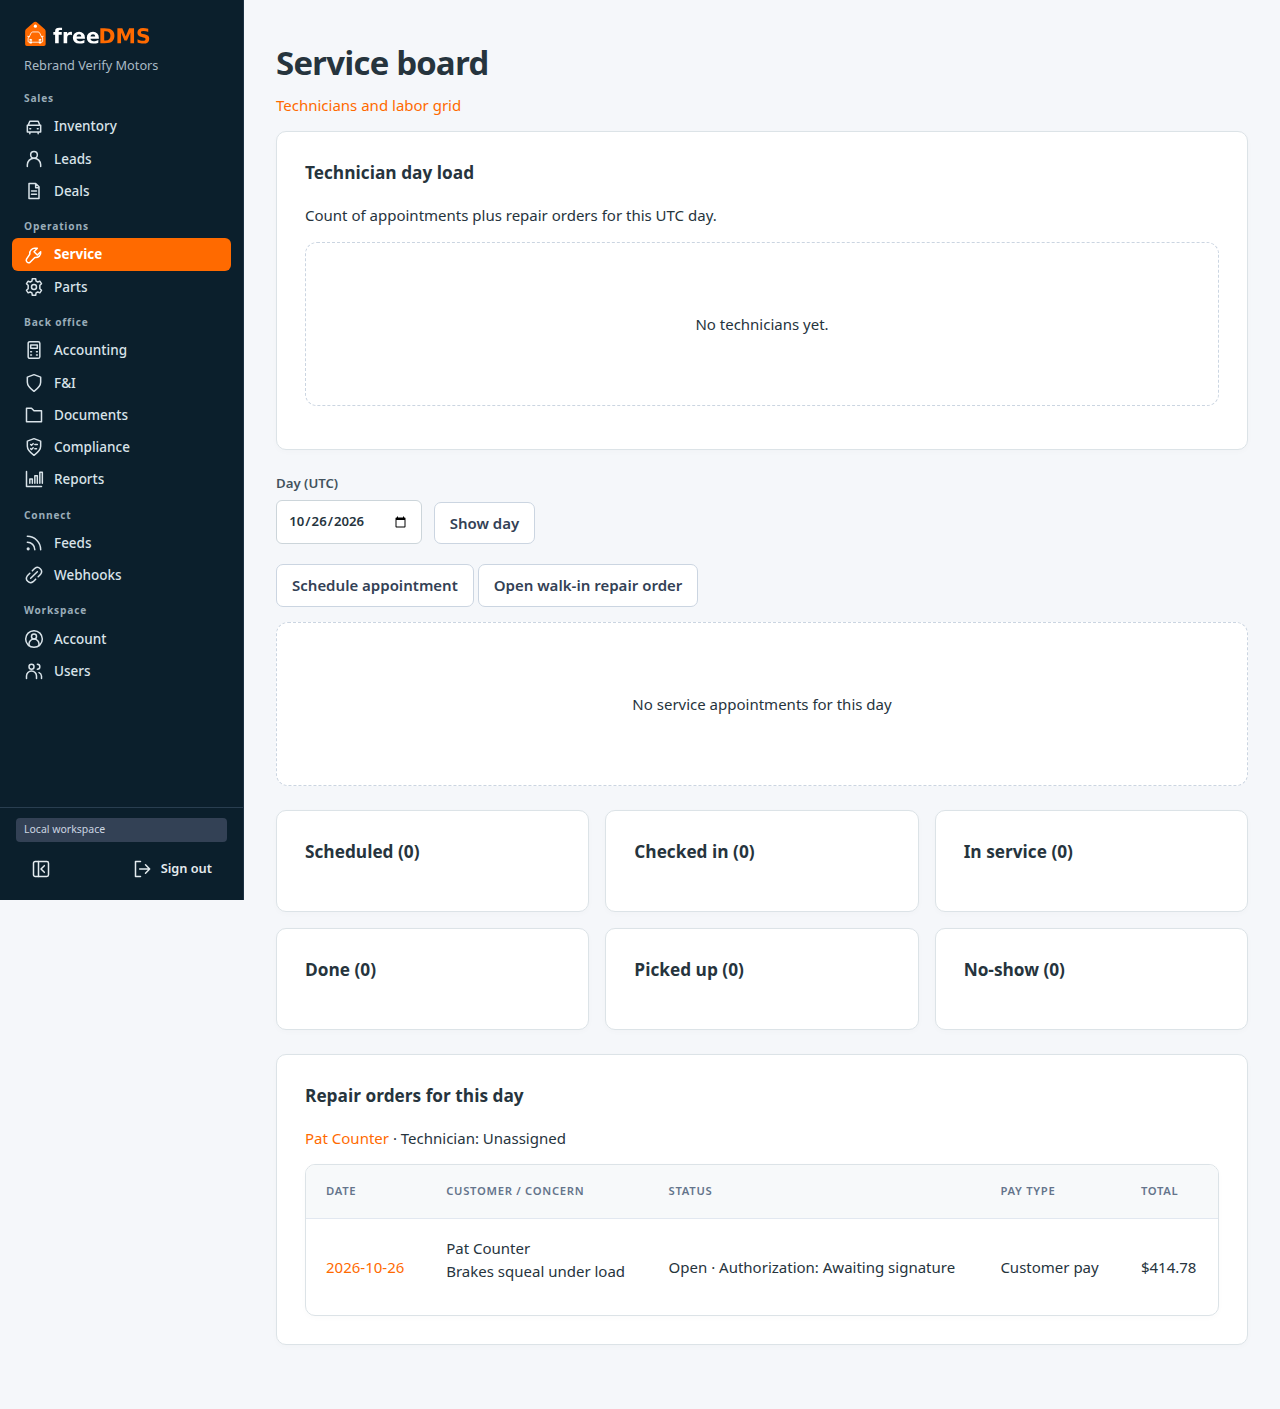
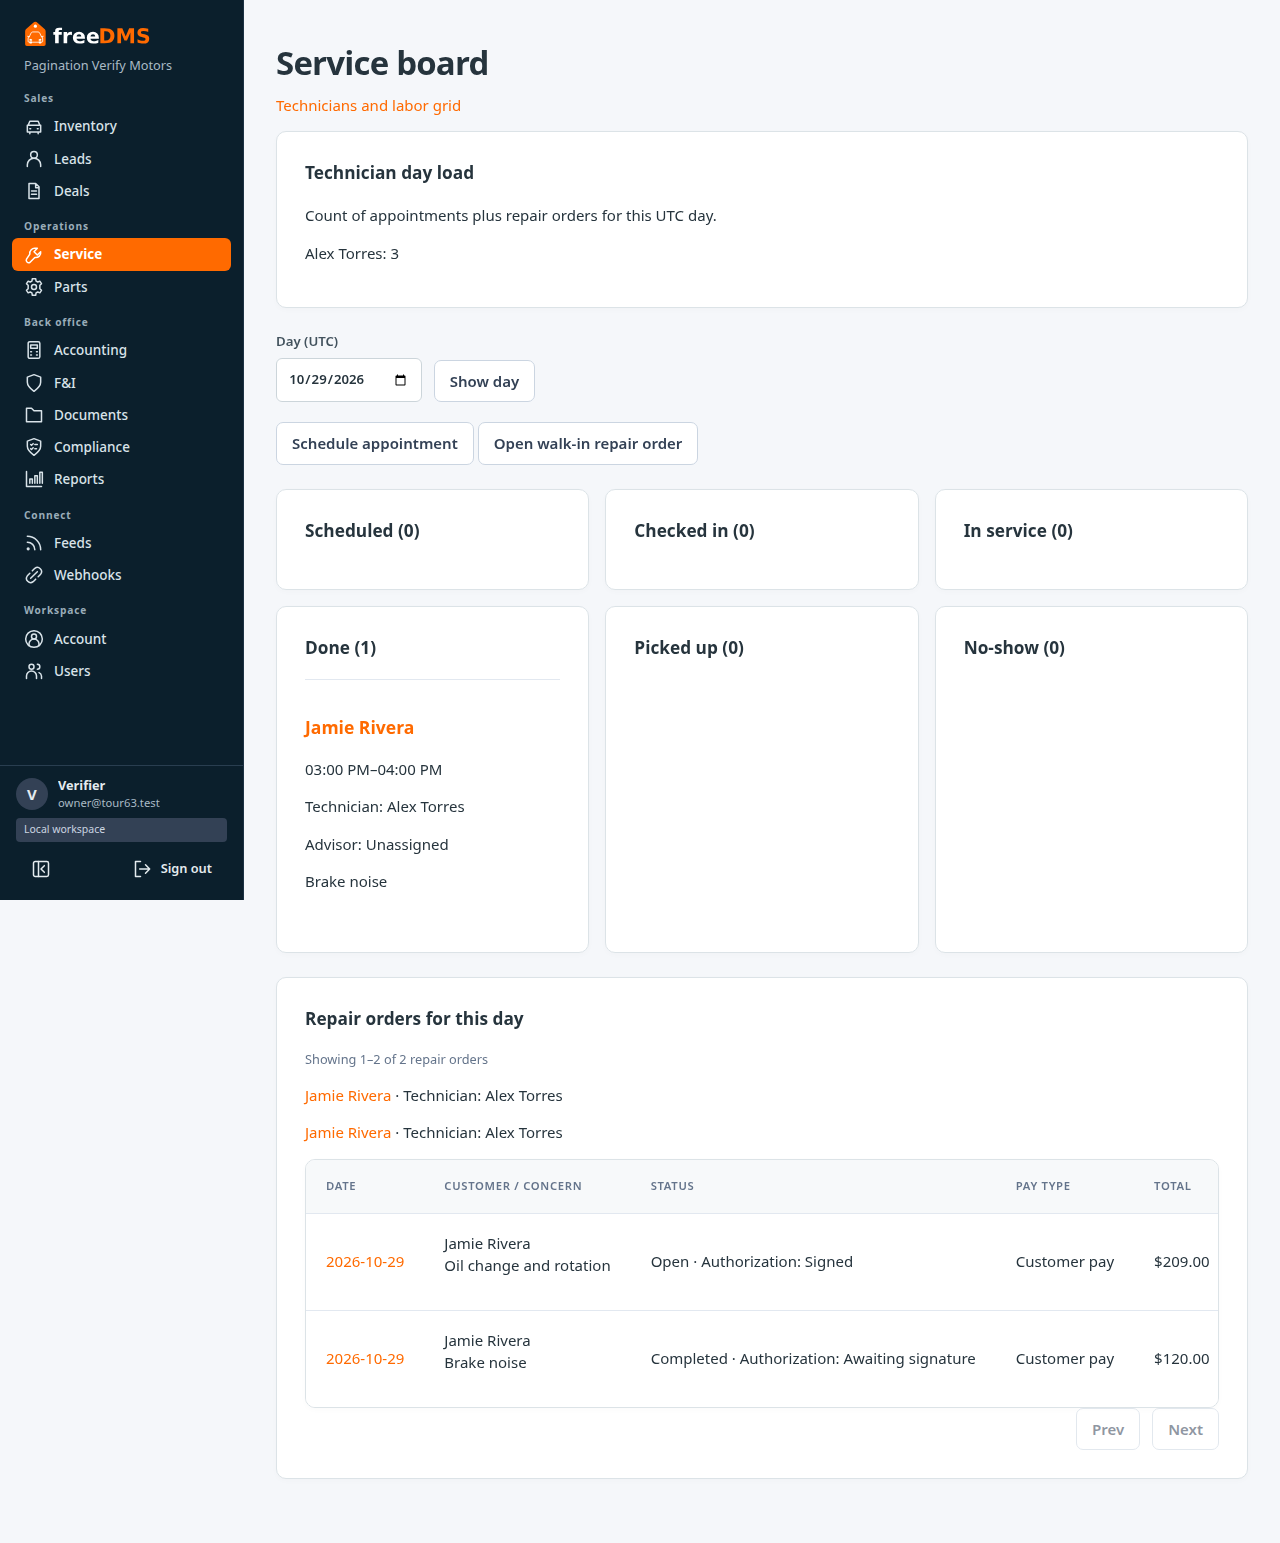
Record #63 board pagination measurement and refresh service board screenshot

diff --git a/docs/scale-test.md b/docs/scale-test.md
@@ -668,5 +668,14 @@ The unchanged #49 harness measures the bounded first page for Dataset A
 with 100 requests at peak concurrency 5 and 10x concurrency 50. Both levels
 must meet p95 < 300 ms with zero errors.
 
-**Measurement pending supervisor verification:** peak p95: TBD; 10x p95: TBD;
-errors: TBD. No new performance measurements are claimed here.
+Local check on 2026-10-29 (Node v24.22.1): seeded Dataset A exactly as
+above (2,500 repair orders, no light tenants) and ran the unchanged measure
+CLI with 100 requests per endpoint, peak 5 and 10x 50. Service board
+measured p50 5.8 ms / p95 **16.2 ms at peak — PASS** and p50 48.6 ms /
+p95 **81.1 ms at 10x — PASS**, with zero errors at both levels. Before
+pagination (summary view only, same dataset) the board measured p95
+65.9 ms at peak and 607.3 ms at 10x. The default first page is 47,656
+bytes for 100 summary rows, against 813,521 bytes for all 2,500 rows
+before pagination. Every other endpoint in this run also passed its
+budget with zero errors. This is local in-memory evidence, not hosted
+Dynamo capacity evidence.

diff --git a/README.md b/README.md
@@ -130,7 +130,8 @@ here is signed in store; the record shows the signer, time, and document hash.
 ![Deal jacket](docs/screenshots/deal-jacket.png)
 
 **Service board** — the day's appointments grouped by status, with the day's
-repair orders, totals, assigned technicians, and per-technician day loads.
+repair orders (paged 100 at a time), totals, assigned technicians, and
+per-technician day loads.
 
 ![Service board](docs/screenshots/service-board.png)
 
